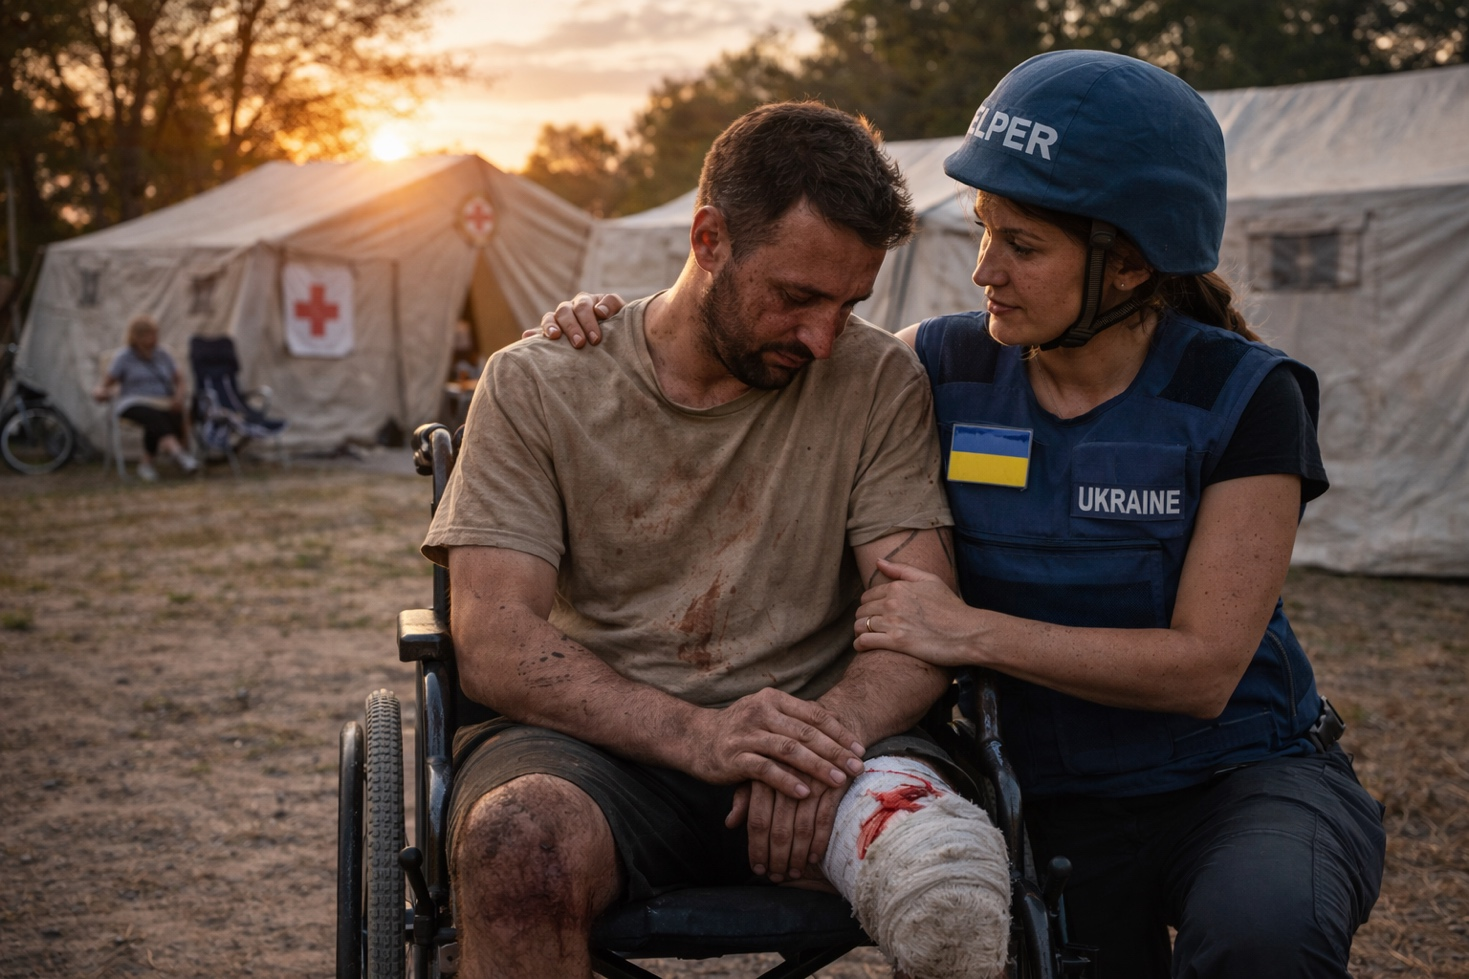
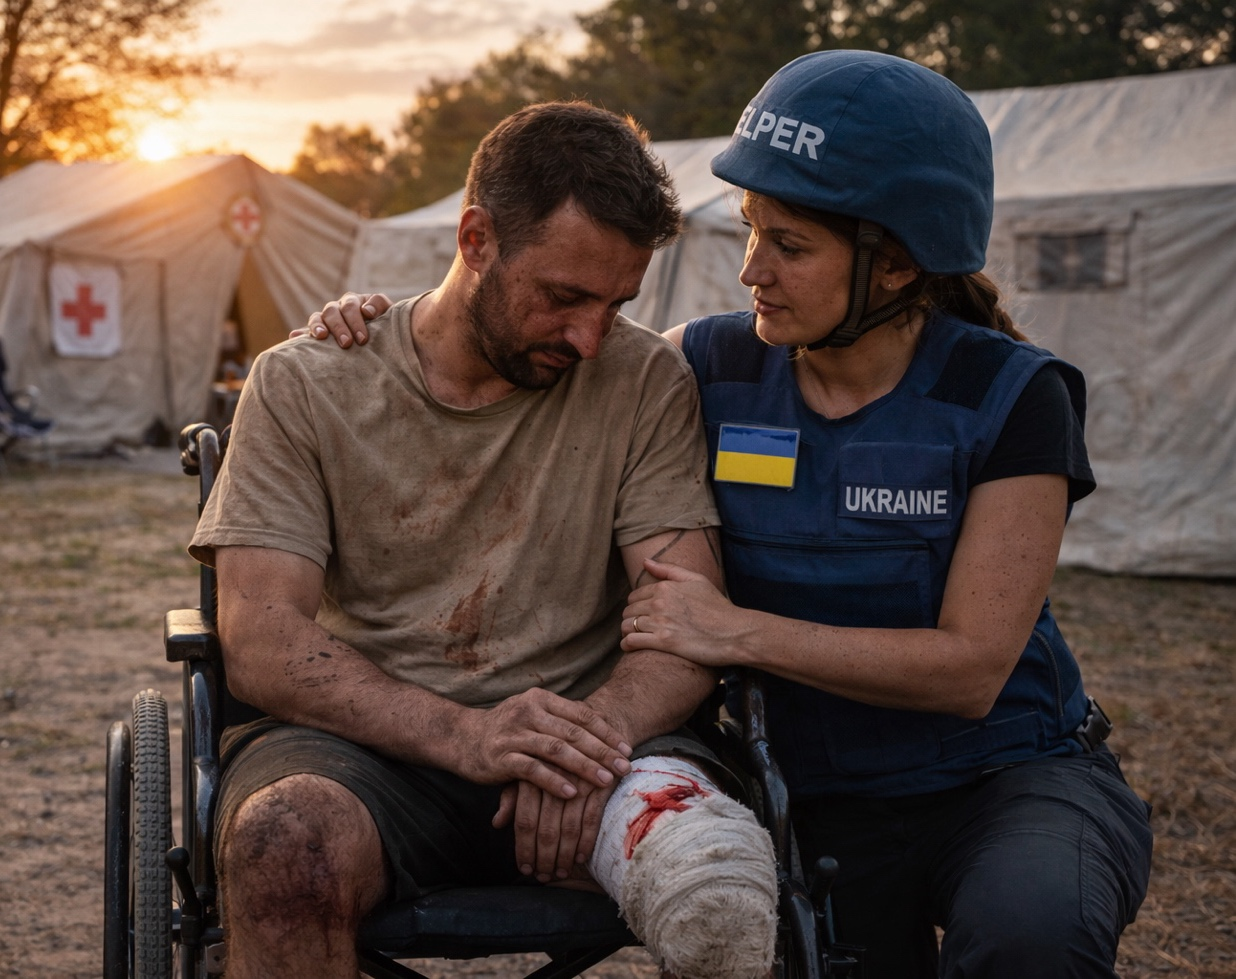
change some styles for images, update texts

diff --git a/lib/i18n/uk.ts b/lib/i18n/uk.ts
@@ -50,11 +50,11 @@ export const uk: Dictionary = {
     eore: "навчання з ризиків для громад",
     nts: "виявлення та картографування небезпечних зон",
     humanitarianAssistance: "підтримка вразливих груп",
-    communityTraining: "Навчання громад та розбудова потенціалу",
-    mva: "Допомога постраждалим від мін",
+    communityTraining: "навчання громад та розбудова потенціалу",
+    mva: "допомога постраждалим від мін",
     tags: {
-      eore: "EORE",
-      nts: "NTS",
+      eore: "ІНРМ",
+      nts: "НТО",
       humanitarianAssistance: "Гуманітарна допомога",
       mva: "MVA",
     },
@@ -72,7 +72,7 @@ export const uk: Dictionary = {
   },
   geography: {
     title: "Географія роботи",
-    text: "Humanitarian Recovery працює в різних регіонах України.",
+    text: "Громадська організація \"Гуманітарне відновлення\" працює там, де люди потребують безпеки, підтримки та можливостей для відновлення. Наша діяльність об'єднує протимінну діяльність, гуманітарну допомогу та розвиток громад заради безпечного майбутнього кожної людини.",
   },
   team: {
     title: "Команда",

diff --git a/components/AreasOfWork.tsx b/components/AreasOfWork.tsx
@@ -22,17 +22,18 @@ export function AreasOfWork() {
 
   return (
     <PageSection id="areas" bg="from-white to-white">
-      <div className="mx-auto grid max-w-[1024px] grid-cols-1 items-center gap-12 px-8 py-14 sm:px-12 md:grid-cols-[0.82fr_1.18fr]">
-        <div className="relative mx-auto w-full max-w-[330px]">
-          <div className="relative z-10 rounded-[44px] bg-brand px-7 py-9 shadow-[0_10px_25px_rgba(0,0,0,0.12)]">
-            <h2 className="text-4xl font-bold leading-tight text-white">{t.areasOfWork.title}</h2>
+      <div className="flex h-full flex-col justify-center">
+      <div className="mx-auto grid grid-cols-1 items-center gap-12 px-8 py-14 sm:px-12 md:grid-cols-[1fr_1fr]">
+        <div className="mx-auto w-full max-w-[460px] overflow-hidden rounded-[26px] shadow-[0_14px_34px_rgba(0,0,0,0.16)]">
+          <div className="bg-brand px-6 py-5">
+            <h2 className="text-2xl font-bold text-white sm:text-[26px]">{t.areasOfWork.title}</h2>
           </div>
           <Image
             src={areasImage.src}
             alt={t.areasOfWork.imageAlt}
-            width={298}
-            height={300}
-            className="h-full w-full -mt-5 rounded-4xl shadow-[0_12px_30px_rgba(0,0,0,0.15)]"
+            width={335}
+            height={362}
+            className="h-full w-full object-cover"
           />
         </div>
 
@@ -53,6 +54,7 @@ export function AreasOfWork() {
             </div>
           ))}
         </div>
+      </div>
       </div>
 
       <SectionFooter />

diff --git a/components/MineVictimAssistance.tsx b/components/MineVictimAssistance.tsx
@@ -18,17 +18,18 @@ export function MineVictimAssistance() {
 
   return (
     <PageSection id="mva" bg="from-white to-white">
-      <div className="mx-auto grid max-w-[1024px] grid-cols-1 items-center gap-12 px-8 py-14 sm:px-12 md:grid-cols-2">
-        <div className="mx-auto w-full max-w-[360px] overflow-hidden rounded-[26px] shadow-[0_14px_34px_rgba(0,0,0,0.16)]">
+      <div className="flex h-full flex-col justify-center">
+      <div className="mx-auto grid grid-cols-1 items-center gap-12 px-8 py-14 sm:px-12 md:grid-cols-2">
+        <div className="mx-auto w-full max-w-[460px] overflow-hidden rounded-[26px] shadow-[0_14px_34px_rgba(0,0,0,0.16)]">
           <div className="bg-brand px-6 py-5">
-            <h2 className="text-2xl font-bold text-white sm:text-[26px]">{t.mva.title}</h2>
+            <h2 className="whitespace-nowrap text-2xl font-bold text-white sm:text-[26px]">{t.mva.title}</h2>
           </div>
           <Image
             src={mvaImage.src}
             alt={t.mva.imageAlt}
             width={335}
             height={362}
-            className="h-full w-full object-cover"
+            className="h-full w-full object-cover translate-z-1.5"
           />
         </div>
 
@@ -47,6 +48,7 @@ export function MineVictimAssistance() {
             ))}
           </div>
         </div>
+      </div>
       </div>
 
       <SectionFooter />

diff --git a/components/Geography.tsx b/components/Geography.tsx
@@ -21,7 +21,7 @@ export function Geography() {
       />
       <div className="relative mx-auto min-h-[440px] max-w-[1024px] px-8 py-16 sm:px-12 sm:py-20">
         <h2 className="text-4xl font-bold text-white sm:text-[52px]">{t.geography.title}</h2>
-        <p className="mt-10 max-w-[430px] text-2xl leading-snug text-white sm:mt-14 sm:text-[32px]">
+        <p className="mt-10 max-w-[430px] text-xl leading-snug text-white sm:mt-14">
           {t.geography.text}
         </p>
       </div>

diff --git a/components/MissionVision.tsx b/components/MissionVision.tsx
@@ -52,7 +52,7 @@ function Column({
 }) {
   return (
     <div className="relative flex h-full flex-col">
-      <div className={`flex basis-[46%] items-start justify-center pt-10 sm:pt-14 ${topClass}`}>
+      <div className={`flex basis-[46%] items-center justify-center ${topClass}`}>
         <h3 className="text-3xl font-bold text-white sm:text-5xl">{title}</h3>
       </div>
       <div className={`flex basis-[54%] items-center justify-center px-5 sm:px-10 ${bottomClass}`}>

diff --git a/lib/i18n/en.ts b/lib/i18n/en.ts
@@ -69,7 +69,7 @@ export const en = {
   },
   geography: {
     title: "Geography of Work",
-    text: "Humanitarian Recovery operates across multiple regions of Ukraine.",
+    text: "Humanitarian Recovery \"Humanitarian recovery\" works where people need safety, support, and opportunities for recovery. Our work combines mine action, humanitarian assistance, and community development for a secure future for every person.",
   },
   team: {
     title: "Team",
